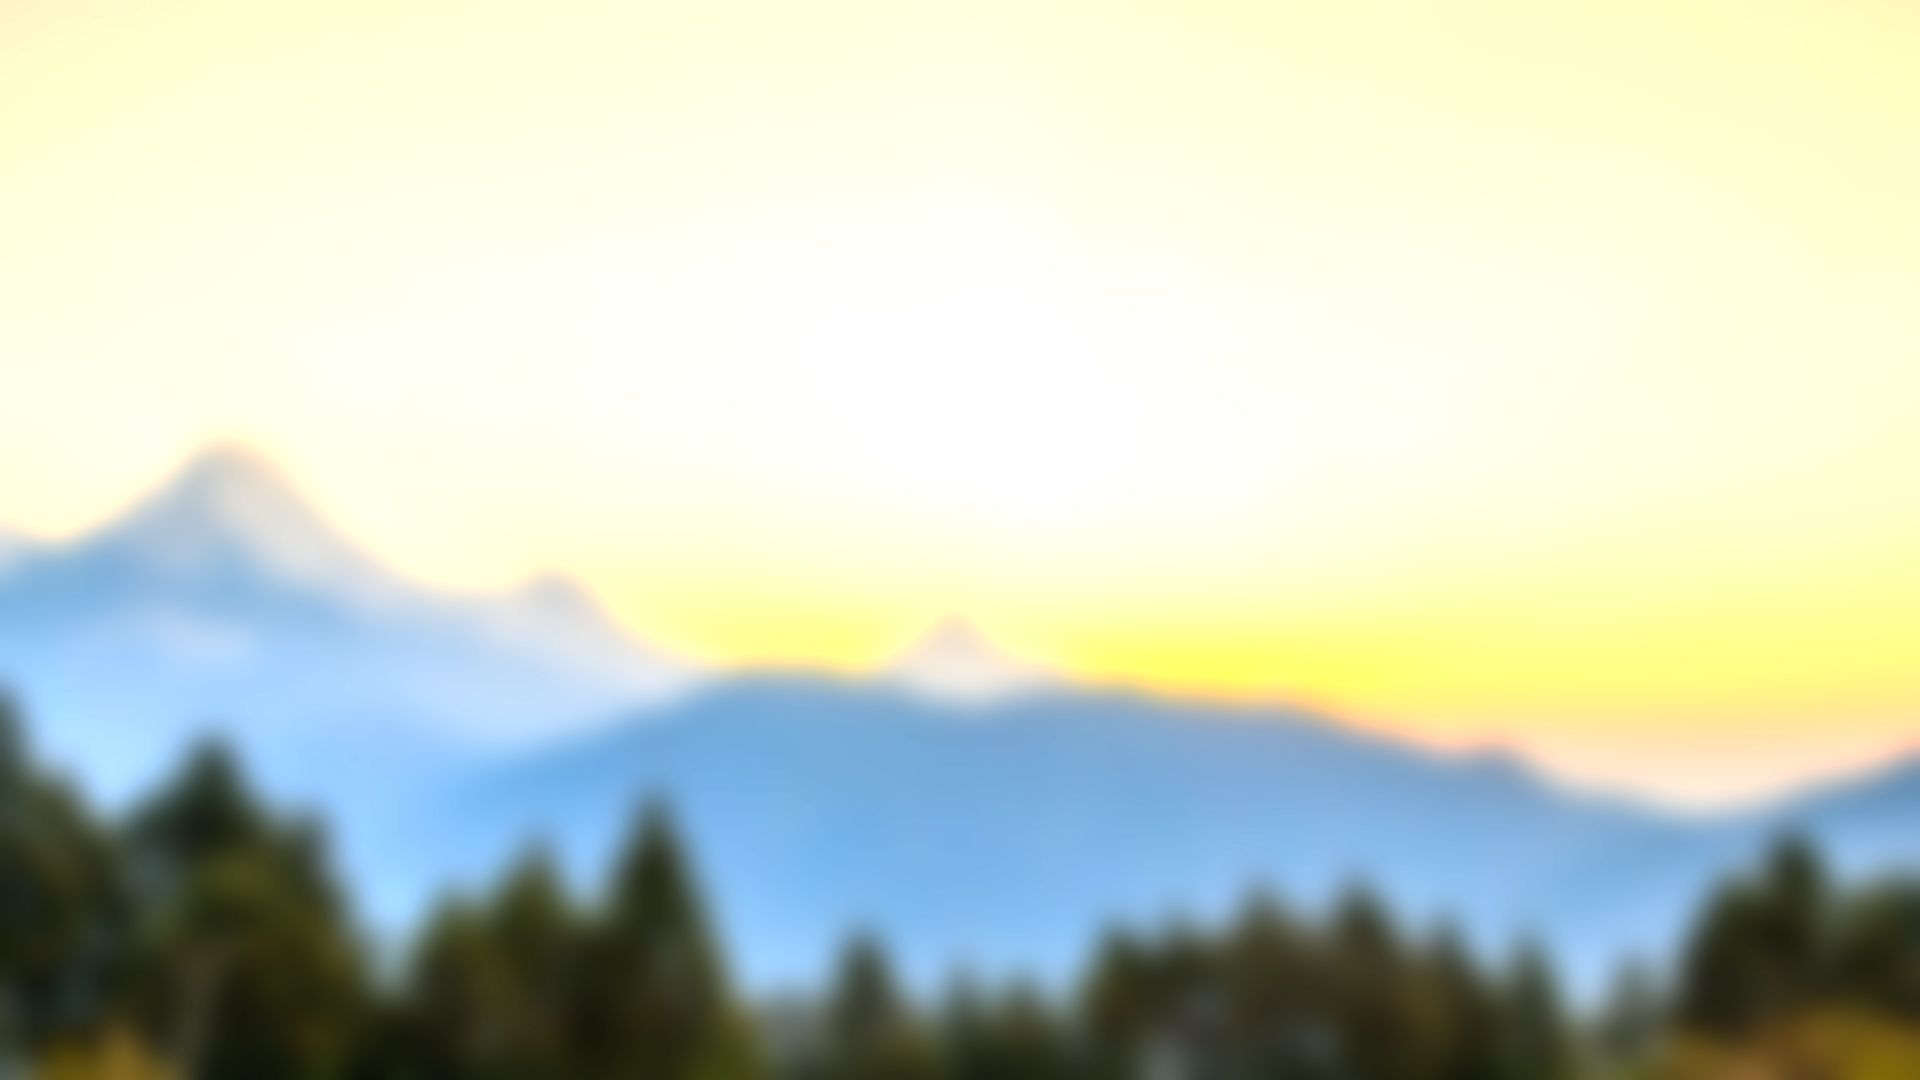
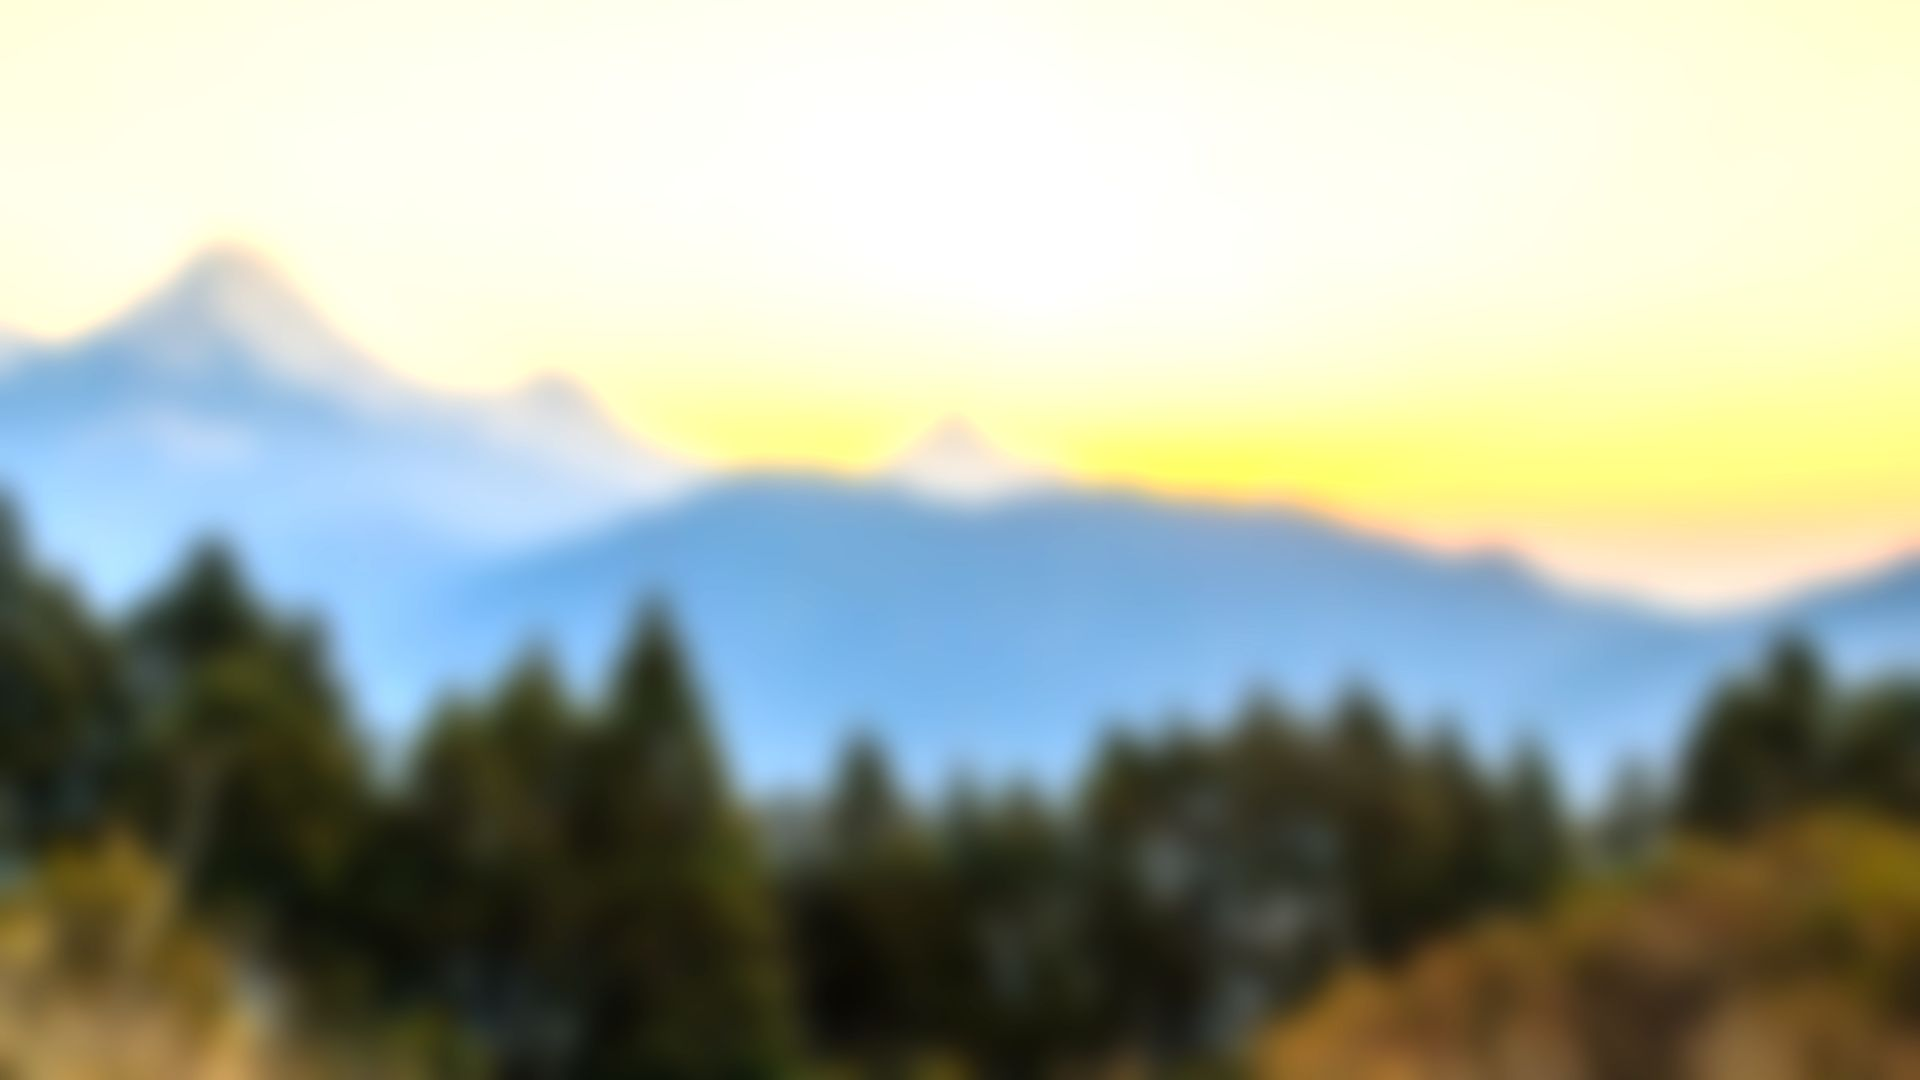
Launcher: scenes placed for depth, the scenery rising in front of the clock
Each clock is sized and placed so the mountain, dune or trees cover the lower third of the
digits and never their top 60%, as on a phone's lock screen. Fuji, Torres del Paine, the
Matterhorn and Annapurna are cropped lower so their peaks reach the clock; Paine's fill is
paler to read against its warm sky. Tried on a TCL Smart TV Pro.

diff --git a/launcher/app/src/main/java/com/gathin/tvhome/SceneView.java b/launcher/app/src/main/java/com/gathin/tvhome/SceneView.java
@@ -67,20 +67,21 @@ final class SceneView extends View {
 
     private static final int WHITE_RIM = 0x8CFFFFFF, WHITE_FILL = 0x1AFFFFFF;
     /** Ten bright destinations (assets/scenes/CREDITS.txt): photo, clock place and size at 1920 px, and whether the
-     *  scenery cut-out is drawn over the digits. A light top band keeps the date readable over a bright sky. */
+     *  scenery cut-out is drawn over the digits. Placed for depth, as on a phone's lock screen: the scenery rises in
+     *  front of the lower third of the digits and never touches their top 60 %. A light top band keeps the date readable over a bright sky. */
     private static final int[] TOP_SHADE = {0x40000000, 0x00000000};
     private static final float[] TOP_SHADE_AT = {0f, 0.22f};
     private static final Spec[] SPECS = {
-            new Spec("louisewinter", true, 170, 420, -1, 1.1f, 1.1f, 0.95f, 1f, WHITE_RIM, WHITE_FILL, true, TOP_SHADE, TOP_SHADE_AT),
-            new Spec("secedasnow", true, 140, 360, -1, 1.1f, 1.1f, 0.95f, 1f, WHITE_RIM, WHITE_FILL, true, TOP_SHADE, TOP_SHADE_AT),
-            new Spec("matterhorn", true, 150, 390, -1, 1.1f, 1.1f, 0.95f, 1f, WHITE_RIM, WHITE_FILL, true, TOP_SHADE, TOP_SHADE_AT),
-            new Spec("fuji", true, 150, 450, -1, 1.1f, 1.1f, 0.95f, 1f, WHITE_RIM, WHITE_FILL, true, TOP_SHADE, TOP_SHADE_AT),
-            new Spec("paine", true, 150, 450, -1, 1.1f, 1.1f, 0.95f, 1f, WHITE_RIM, WHITE_FILL, true, TOP_SHADE, TOP_SHADE_AT),
-            new Spec("matterhornlake", true, 150, 360, -1, 1.1f, 1.1f, 0.95f, 1f, WHITE_RIM, WHITE_FILL, true, TOP_SHADE, TOP_SHADE_AT),
+            new Spec("louisewinter", true, 230, 440, -1, 1.1f, 1.1f, 0.95f, 1f, WHITE_RIM, WHITE_FILL, true, TOP_SHADE, TOP_SHADE_AT),
+            new Spec("secedasnow", true, 150, 400, -1, 1.1f, 1.1f, 0.95f, 1f, WHITE_RIM, WHITE_FILL, true, TOP_SHADE, TOP_SHADE_AT),
+            new Spec("matterhorn", true, 150, 400, -1, 1.1f, 1.1f, 0.95f, 1f, WHITE_RIM, WHITE_FILL, true, TOP_SHADE, TOP_SHADE_AT),
+            new Spec("fuji", true, 140, 540, -1, 1.1f, 1.1f, 0.95f, 1f, WHITE_RIM, WHITE_FILL, true, TOP_SHADE, TOP_SHADE_AT),
+            new Spec("paine", true, 150, 400, -1, 1.45f, 0.75f, 1f, 1f, WHITE_RIM, WHITE_FILL, true, TOP_SHADE, TOP_SHADE_AT),
+            new Spec("matterhornlake", true, 160, 360, -1, 1.1f, 1.1f, 0.95f, 1f, WHITE_RIM, WHITE_FILL, true, TOP_SHADE, TOP_SHADE_AT),
             new Spec("pangong", false, 150, 420, -1, 1.1f, 1.1f, 0.95f, 1f, WHITE_RIM, WHITE_FILL, true, TOP_SHADE, TOP_SHADE_AT),
-            new Spec("maldives", true, 170, 420, -1, 1.1f, 1.1f, 0.95f, 1f, WHITE_RIM, WHITE_FILL, true, TOP_SHADE, TOP_SHADE_AT),
-            new Spec("namib", true, 160, 360, -1, 1.1f, 1.1f, 0.95f, 1f, WHITE_RIM, WHITE_FILL, true, TOP_SHADE, TOP_SHADE_AT),
-            new Spec("annapurna", true, 150, 420, -1, 1.1f, 1.1f, 0.95f, 1f, WHITE_RIM, WHITE_FILL, true, TOP_SHADE, TOP_SHADE_AT)
+            new Spec("maldives", true, 140, 540, -1, 1.1f, 1.1f, 0.95f, 1f, WHITE_RIM, WHITE_FILL, true, TOP_SHADE, TOP_SHADE_AT),
+            new Spec("namib", true, 150, 440, -1, 1.1f, 1.1f, 0.95f, 1f, WHITE_RIM, WHITE_FILL, true, TOP_SHADE, TOP_SHADE_AT),
+            new Spec("annapurna", true, 140, 540, -1, 1.1f, 1.1f, 0.95f, 1f, WHITE_RIM, WHITE_FILL, true, TOP_SHADE, TOP_SHADE_AT)
     };
 
     private final Handler ui = new Handler(Looper.getMainLooper());

diff --git a/restore/2026-11-14-couch-port/RESTORE.md b/restore/2026-11-14-couch-port/RESTORE.md
@@ -2,7 +2,7 @@
 
 What is on the TCL Smart TV Pro (Android 11) at this point:
 
-- **App:** `com.gathin.tvhome` built from git tag `couch-port-v5` (APK md5 `c5466406ed7b6f6283b184d5d531bf28`, 8778959 bytes; the
+- **App:** `com.gathin.tvhome` built from git tag `couch-port-v6` (APK md5 `f6b5fffa5654dd20234d097081ee3f37`, 9925439 bytes; the
   APK is not in the repo, the tag rebuilds it).
 - **Theme:** `config.json` here (also `themes-local/couch-scenes/`), turning on:
   - `scenes`: ten bright destination photos with the glass clock (SceneView), a different one each start; credits in launcher/app/src/main/assets/scenes/CREDITS.txt
@@ -17,7 +17,7 @@ What is on the TCL Smart TV Pro (Android 11) at this point:
 ## Restore
 
 ```sh
-git checkout couch-port-v5
+git checkout couch-port-v6
 cd launcher
 TV_HOST=<tv ip> STOCK_LAUNCHER=none HOME_KEY_SERVICE=1 ./build-and-install.sh
 cd ..
